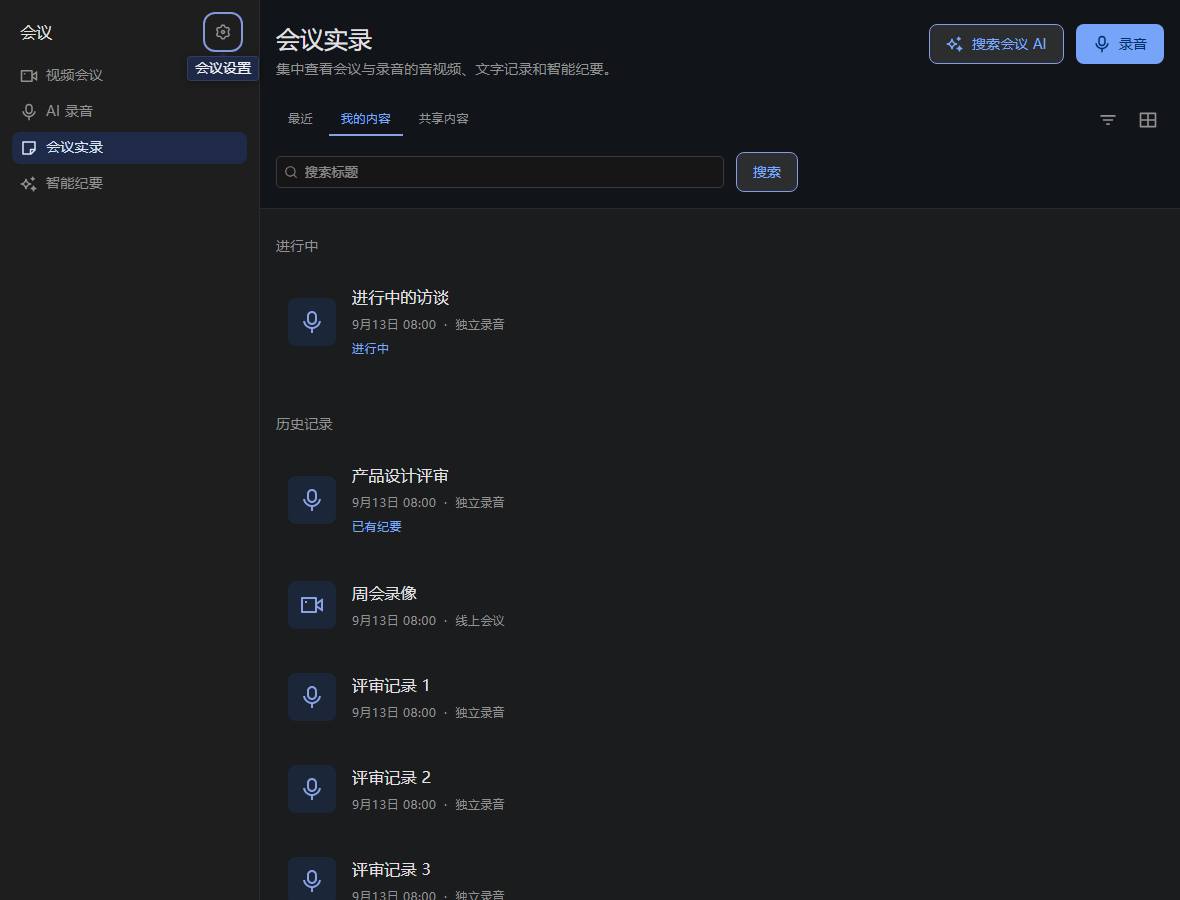
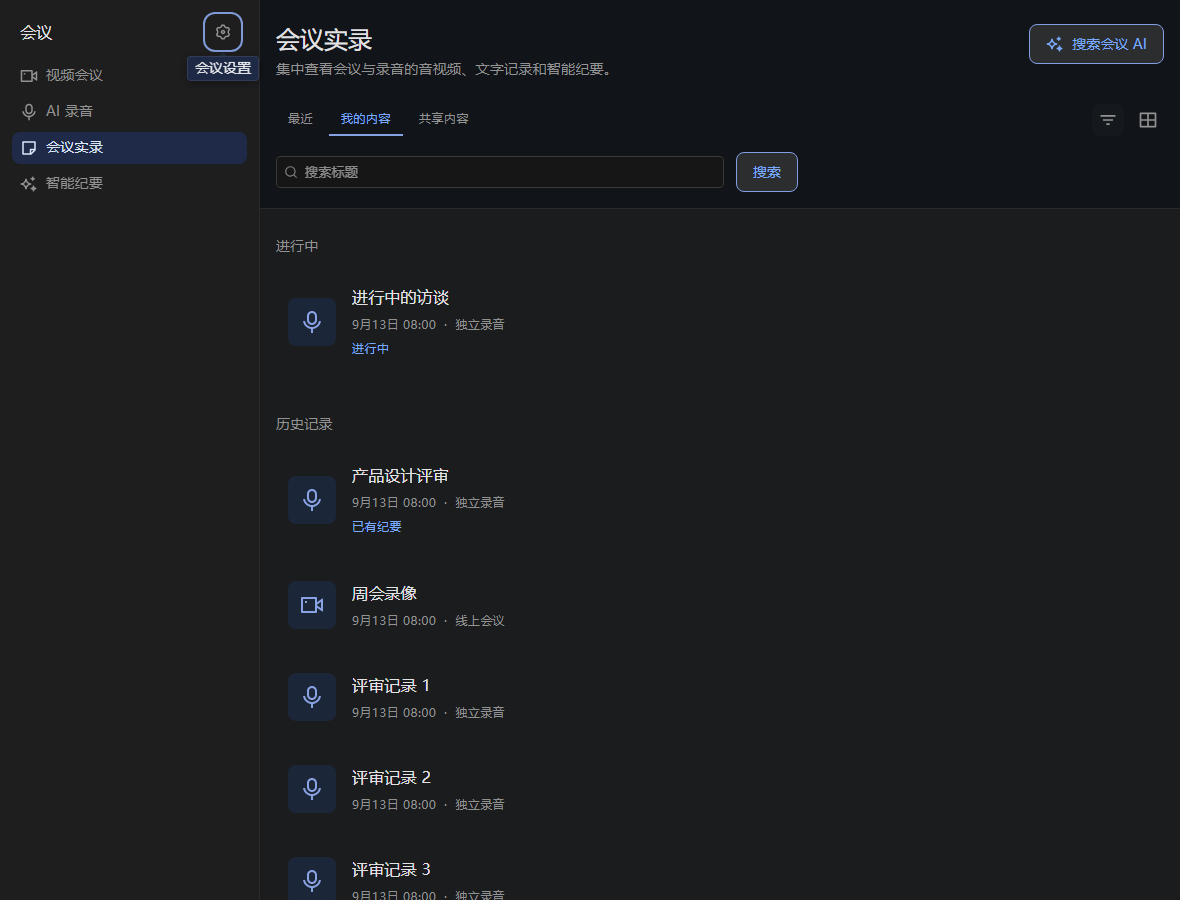
fix(meetings): drop the upload and record buttons from the records page
按「会议实录」页只查/看的定位,把页头的【上传】【录音】两枚按钮删掉 —— 两个动作都归
AI 录音页(页头同款按钮 + 导航里的固定入口),不必同一动作在两个页面各摆一份。

- MeetingLibrary.tsx 删掉 {!minutes && …} 那一段,连带 RecordingUpload 的 import 与
  capture_audio_enabled 判断;实录页头现在只剩「搜索会议 AI」(智能纪要页本来就没有)。
- 四个页面的页头动作集合因此是:视频会议 = 三个入口、AI 录音 = 导入 + 录音、
  实录 / 纪要 = 搜索会议 AI —— 样式统一(3.5 那档 action 尺寸 + 18px 图标、右对齐),
  动作各归其位。
- 走查脚本新增两条断言:实录页上「上传」「录音」按钮计数必须为 0,以后谁加回来直接红。
- 顺带修正两处因这次改动而不准确的注释(walkthrough 与 RecordingOverview 里
  「与实录同款工具按钮」的说法)。

验证:lint / prettier / tsc / check:colors / check:foundations / build 通过;
vitest 159 文件 1027 项通过;check-meeting-pages-ui.mjs 新增断言后仍通过;
check-meeting-library-ui.mjs 通过。

Changed region(s): [[0.7627, 0.0, 1.0, 0.0933]]

diff --git a/src/frontend/src/features/meetings/routes/MeetingLibrary.tsx b/src/frontend/src/features/meetings/routes/MeetingLibrary.tsx
@@ -44,7 +44,6 @@ import {
 } from '../components/libraryStyles'
 import { MeetingModuleNav } from '../components/MeetingModuleNav'
 import { MeetingModuleShell } from '../components/MeetingModuleShell'
-import { RecordingUpload } from '../components/RecordingUpload'
 import type { MeetingRecordFilters } from '../api/ApiMeetingRecord'
 
 /** 工具行:范围筛选在左,紧凑图标动作在右。 */
@@ -434,20 +433,8 @@ export function Library({
                   {t('minutesReader.searchMeetings')}
                 </Button>
               )}
-              {!minutes && (
-                <>
-                  <RecordingUpload viewerId={viewerId} />
-                  {config?.meeting_records?.capture_audio_enabled && (
-                    <Button
-                      size="action"
-                      icon={<RiMicLine size={18} aria-hidden />}
-                      onPress={() => navigate('/meeting/recording/capture')}
-                    >
-                      {t('library.startRecording')}
-                    </Button>
-                  )}
-                </>
-              )}
+              {/* 「上传」和「录音」不再挂在这一页上:两个动作都在 AI 录音页
+                  (页头同款按钮 + 导航里的固定入口),实录页只负责查/看。 */}
             </div>
           </header>
           {/* 范围筛选走共享分段控件,两个页面统一用 underline:同一档工具按钮,

diff --git a/src/frontend/src/features/meetings/routes/RecordingOverview.tsx b/src/frontend/src/features/meetings/routes/RecordingOverview.tsx
@@ -173,8 +173,8 @@ export function RecordingOverview() {
               <h1 className={pageTitle}>{t('library.record')}</h1>
               <p className={pageLead}>{t('library.recordHint')}</p>
             </div>
-            {/* 与「会议实录」页头同一套工具按钮:同一档 action 尺寸 + 18px 图标,
-                右对齐。原先这里是两枚大入口块,四个页面因此各长一个样。 */}
+            {/* 页头动作与其它栏目页同一档:headerActions 里放 action 尺寸 + 18px 图标的
+                按钮,右对齐。这一页是「录制/导入」两个动作的归属页,会议实录页只查/看。 */}
             {enabled && (
               <div className={headerActions}>
                 <RecordingUpload

diff --git a/docs/reviews/meetings-ux-migration-2026-09-16.md b/docs/reviews/meetings-ux-migration-2026-09-16.md
@@ -379,6 +379,18 @@ id/slug、开过会后新建、结束后新建、带 `scheduled_at` 时新建、
 一批**响应结构过期**的断言（`response.json()` 精确比对，多出的字段没跟上）——后者性质
 相同，属于下一批可以顺手清的。
 
+### 3.9 会议实录页去掉「上传」「录音」按钮（2026-09-17 追加）
+
+按要求把「会议实录」页头的【上传】【录音】两枚按钮删掉 —— 这一页只查/看，两个动作都归
+AI 录音页（页头同款按钮 + 导航里的固定入口），不必同一动作在两个页面各摆一份。
+
+- `MeetingLibrary.tsx`：删掉 `{!minutes && …}` 那一段（连带 `RecordingUpload` 的 import
+  与 `capture_audio_enabled` 判断）；实录页头现在只剩「搜索会议 AI」。
+- 智能纪要页本来就没有这两个按钮。于是四个页面的页头动作集合是：视频会议 = 三个入口，
+  AI 录音 = 导入 + 录音，实录 / 纪要 = 搜索会议 AI —— **样式统一，动作各归其位**
+  （3.5 定的那条「同一档 action 尺寸 + 18px 图标、右对齐」继续成立）。
+- 走查脚本新增两条断言：实录页上「上传」「录音」按钮计数必须为 0 —— 以后谁加回来直接红。
+
 ### 4. 顺带修掉的缺陷
 
 - **窄屏左列不收起**：`/meeting` 登录态直接渲染定宽 `MeetingNavPanel`，390px 下会把

diff --git a/CHANGELOG.md b/CHANGELOG.md
@@ -99,6 +99,8 @@ and this project adheres to
   calls are started again, instead of piling up empty rooms
 - 🩹(backend) refresh the room creation tests that still expected a slugified
   meeting code instead of the generated 8-digit one
+- 🩹(frontend) drop the upload and record buttons from the meeting records
+  page, which now only reads and searches
 
 ## [1.16.0] - 2026-05-13
 
